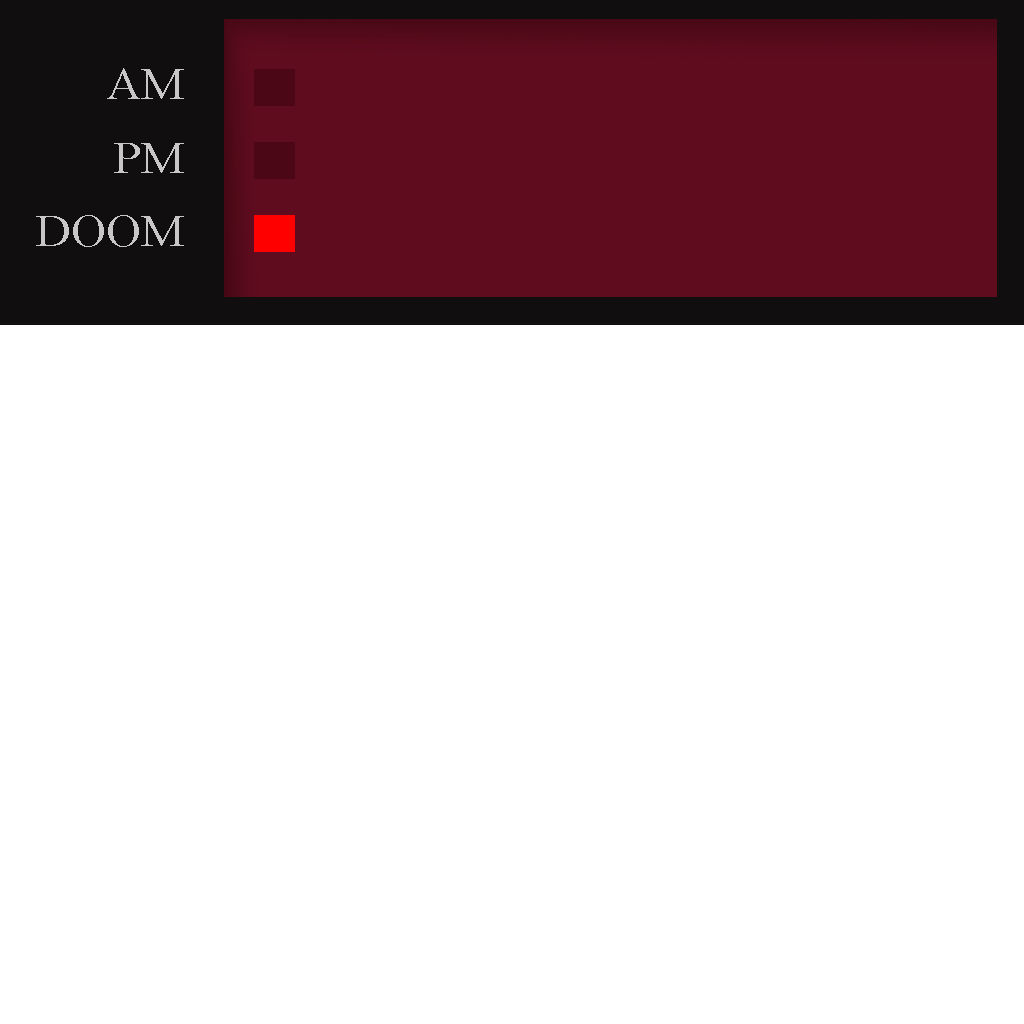
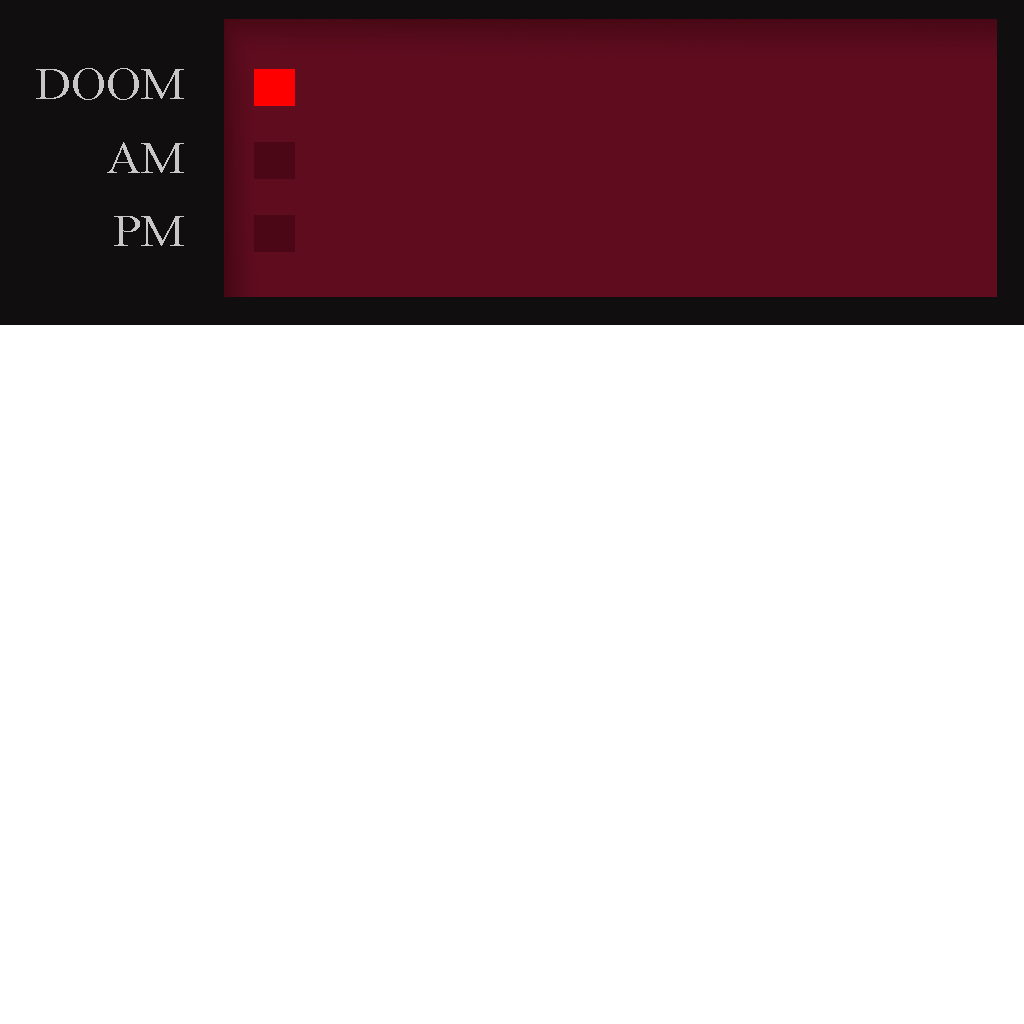
Added: key display, interact display
call scene->canvas->collectKey() to add a key, and scene->canvas->setInteractHidden(bool val) to hide or show the interact tab

diff --git a/src/client/canvas.cpp b/src/client/canvas.cpp
@@ -8,26 +8,46 @@ Canvas::Canvas() {
     timerdisplay = new TimerDisplay(timerPos);
     elements.insert({timerdisplay->getName(), timerdisplay});
 
+    keydisplay = new KeyDisplay(keyPos);
+    elements.insert({keydisplay->getName(), keydisplay});
+
     compass = new Compass(compassPos);
     elements.insert({compass->getName(), compass});
+
+    interactdisplay = new InteractDisplay(interactPos);
+    elements.insert({interactdisplay->getName(), interactdisplay});
 }
 
 Canvas::~Canvas() {
-    delete crosshair;
-    delete timerdisplay;
+    for (const auto& pair : elements)
+        delete pair.second;
 }
 
 void Canvas::draw(Shader& shader) {
     shader.use();
-    crosshair->draw(shader);
-    timerdisplay->draw(shader);
-    compass->draw(shader);
+    for (const auto& pair : elements)
+        pair.second->draw(shader);
 }
 
 void Canvas::updateWindow(int width, int height) {
-    timerdisplay->onWindowUpdate(width, height);
-    crosshair->onWindowUpdate(width, height);
-    compass->onWindowUpdate(width, height);
+    for (const auto& pair : elements)
+        pair.second->onWindowUpdate(width, height);
+}
+
+void Canvas::collectKey() {
+    keydisplay->onCollectKey();
+}
+
+void Canvas::setInteractHidden(bool val) {
+    interactdisplay->setHidden(val);
+}
+
+void Canvas::updateTimer(int minutes, int seconds) {
+    timerdisplay->updateTimer(minutes, seconds);
+}
+
+void Canvas::updateCompass(glm::vec3 direction) {
+    compass->rotate(direction);
 }
 
 CanvasElement* Canvas::findElement(const std::string name) {

diff --git a/src/client/timerdisplay.cpp b/src/client/timerdisplay.cpp
@@ -76,17 +76,17 @@ TimerDisplay::~TimerDisplay() {
 void TimerDisplay::changePosition() {
 
     glm::vec2 digitsPos = pos + indent;
-    rMinute->position = glm::vec3(digitsPos.x, digitsPos.y, 0.0f);
+    rMinute->changePosition(glm::vec2(digitsPos.x, digitsPos.y));
 
-    column->position = glm::vec3(digitsPos.x + digitGap, digitsPos.y, 0.0f);
+    column->changePosition(glm::vec2(digitsPos.x + digitGap, digitsPos.y));
 
-    lSecond->position = glm::vec3(digitsPos.x + (digitGap * 2.0f), digitsPos.y, 0.0f);
+    lSecond->changePosition(glm::vec2(digitsPos.x + (digitGap * 2.0f), digitsPos.y));
 
-    rSecond->position = glm::vec3(digitsPos.x + (digitGap * 2.5f) + digitGap, digitsPos.y, 0.0f);
+    rSecond->changePosition(glm::vec2(digitsPos.x + (digitGap * 2.5f) + digitGap, digitsPos.y));
 }
 
 void TimerDisplay::onWindowUpdate(int width, int height) {
-    //std::cout << "(" << width << "," << height << ")" << std::endl;
+    // std::cout << "(" << width << "," << height << ")" << std::endl;
     float widthOffset = (1600.0f / (float)width);
     float heightOffset = (900.0f / (float)height);
     for (unsigned int i = 0; i < 5; i++) {

diff --git a/src/client/scene.cpp b/src/client/scene.cpp
@@ -5,8 +5,6 @@
 #include <glad/glad.h>
 #include <iostream>
 #include <vector>
-#include "compass.hpp"
-#include "timerdisplay.hpp"
 
 struct PointLight {
     glm::vec3 position;
@@ -102,24 +100,10 @@ void Scene::updatePlayerState(int id, const glm::vec3& position, const glm::vec3
     }
 }
 
-void Scene::updateTimer(int minutes, int seconds) {
-    // for (auto& [id, player] : players) {
-    //     glm::vec3 dir = player.getDirection();
-    //     std::cout << id << ": " << glm::to_string(dir) << std::endl;
-    // }
-    TimerDisplay* timer = static_cast<TimerDisplay*>(canvas->findElement("timerdisplay"));
-    timer->updateTimer(minutes, seconds);
-}
-
 void Scene::updateWindow() {
     int width, height;
     glfwGetWindowSize(this->window, &width, &height);
     canvas->updateWindow(width, height);
-}
-
-void Scene::updateCompass(glm::vec3 direction) {
-    Compass* compass = static_cast<Compass*>(canvas->findElement("compass"));
-    compass->rotate(direction);
 }
 
 void Scene::removePlayer(int id) {

diff --git a/include/client/keydisplay.hpp b/include/client/keydisplay.hpp
@@ -1,23 +1,17 @@
 #pragma once
 #include <glm/glm.hpp>
 #include <vector>
-#include "canvaselement.hpp"
+#include "canvasimage.hpp"
 #include "uielement.hpp"
 
-class KeyDisplay : public CanvasElement {
+class KeyDisplay : public CanvasImage {
   public:
-    KeyDisplay(glm::vec2 position);
+    KeyDisplay(glm::vec2 pos);
     ~KeyDisplay();
-    void draw(Shader& shader) override;
-    void setHidden(bool val) override;
-    std::string getName() override;
+    void onCollectKey();
 
   private:
-    bool hidden = false;
-    std::string name = "keydisplay";
-    glm::vec2 position;
-    glm::vec2 scale;
-    glm::vec2 initialSpriteCoords = glm::vec2(0.0f, 0.0f);
-    std::vector<UIElement*> keys;
-    UITexture uiTexture;
+    unsigned int collectedKeys = 0;
+    glm::vec2 spriteMap[4] = {glm ::vec2(0.0f, 1024.0f), glm ::vec2(1024.0f, 1024.0f),
+                              glm ::vec2(0.0f, 0.0f), glm ::vec2(1024.0f, 0.0f)};
 };

diff --git a/src/client/interactdisplay.cpp b/src/client/interactdisplay.cpp
@@ -1,0 +1,24 @@
+#include "interactdisplay.hpp"
+
+InteractDisplay::InteractDisplay(glm::vec2 pos) {
+    name = "interactdisplay";
+    position = glm::vec2(pos.x, pos.y);
+    scale = glm::vec2(0.6f, 0.6f);
+    uiTexture = {"../src/client/ui/interact.png", glm::vec2(1024.0f, 1024.0f),
+                 glm::vec2(1024.0f, 1024.0f)};
+    uiELement = new UIElement(glm::vec3(position.x, position.y, 0.0f), scale, initialSpriteCoords,
+                              uiTexture);
+}
+
+void InteractDisplay::onWindowUpdate(int width, int height) {
+    float widthOffset = (1600.0f / (float)width);
+    float heightOffset = (900.0f / (float)height);
+    float xPos = -(uiELement->getBaseWidth() * widthOffset) / 2;
+
+    uiELement->changeDimensions(glm::vec2(widthOffset, heightOffset));
+    uiELement->changePosition(glm::vec2(xPos, uiELement->getPosition().y));
+}
+
+InteractDisplay::~InteractDisplay() {
+    delete uiELement;
+}

diff --git a/include/client/canvas.hpp b/include/client/canvas.hpp
@@ -3,13 +3,20 @@
 #include <unordered_map>
 #include "compass.hpp"
 #include "crosshair.hpp"
+#include "interactdisplay.hpp"
+#include "keydisplay.hpp"
 #include "timerdisplay.hpp"
+
 class Canvas {
   public:
     Canvas();
     ~Canvas();
     void draw(Shader& shader);
     void updateWindow(int width, int height);
+    void collectKey();
+    void setInteractHidden(bool val);
+    void updateTimer(int minutes, int seconds);
+    void updateCompass(glm::vec3 direction);
     CanvasElement* findElement(const std::string name);
 
   private:
@@ -21,6 +28,12 @@ class Canvas {
     TimerDisplay* timerdisplay;
     glm::vec2 timerPos = glm::vec2(-1.0f, 1.0f);
 
+    KeyDisplay* keydisplay;
+    glm::vec2 keyPos = glm::vec2(-1.0f, 1.0f);
+
     Compass* compass;
     glm::vec2 compassPos = glm::vec2(0.7f, 1.0f);
+
+    InteractDisplay* interactdisplay;
+    glm::vec2 interactPos = glm::vec2(-0.3f, -.6f);
 };

diff --git a/src/client/keydisplay.cpp b/src/client/keydisplay.cpp
@@ -1,0 +1,26 @@
+#include "keydisplay.hpp"
+
+KeyDisplay::KeyDisplay(glm::vec2 pos) {
+    name = "keydisplay";
+    hidden = true;
+    position = glm::vec2(pos.x, pos.y);
+    scale = glm::vec2(.6f, 1.0f);
+    initialSpriteCoords = glm ::vec2(1024.0f, 1024.0f);
+    uiTexture = {"../src/client/ui/key-atlas.png", glm::vec2(2048.0f, 2048.0f),
+                 glm::vec2(1024.0f, 1024.0f)};
+    uiELement =
+        new UIElement(glm::vec3(position.x, position.y, 0.0f), scale, spriteMap[0], uiTexture);
+}
+
+void KeyDisplay::onCollectKey() {
+    if (collectedKeys >= 4)
+        return;
+    if (hidden)
+        hidden = false;
+    uiELement->changeSprite(spriteMap[collectedKeys]);
+    collectedKeys++;
+}
+
+KeyDisplay::~KeyDisplay() {
+    delete uiELement;
+}

diff --git a/include/client/uielement.hpp b/include/client/uielement.hpp
@@ -14,19 +14,28 @@ class UIElement {
     void draw(Shader& shader);
     void changeSprite(glm::vec2 coords);
     void changeDimensions(glm::vec2 dim);
+    void changePosition(glm::vec2 pos);
     void rotate(float deg);
+
+    GLfloat getBaseWidth() {
+        return baseWidth;
+    }
+
+    glm::vec3 getPosition() {
+        return position;
+    }
 
   public:
     GLfloat widthModifier, heightModifier;
     glm::vec2 positionModifier;
-    glm::vec3 position;
 
   private:
     GLfloat baseWidth, baseHeight, angle;
-
     GLuint vao, ebo;
     GLuint vbo[2];
     GLuint texture = 0;
+
+    glm::vec3 position;
 
     UITexture uiTexture;
 

diff --git a/include/client/scene.hpp b/include/client/scene.hpp
@@ -80,13 +80,10 @@ class Scene {
      */
     void render(const Camera& camera, bool boundingBoxMode);
 
-    void updateTimer(int minutes, int seconds);
-
-    void updateCompass(glm::vec3 direction);
-
     void updateWindow();
 
     GLFWwindow* window;
+    std::unique_ptr<Canvas> canvas;
 
   private:
     /**
@@ -114,8 +111,6 @@ class Scene {
 
     std::unique_ptr<Model> swampRoomAsset;
     std::unique_ptr<Model> lilypadAsset;
-
-    std::unique_ptr<Canvas> canvas;
 
     std::map<std::string, std::unique_ptr<ModelInstance>>
         modelInstances; // Top-level model instances with their child models.

diff --git a/src/client/client.cpp b/src/client/client.cpp
@@ -227,7 +227,7 @@ void Client::updatePlayerStates(const json& parsed) {
 }
 
 void Client::updateGameTimer(const json& parsed) {
-    scene->updateTimer(parsed["minutes"], parsed["seconds"]);
+    scene->canvas->updateTimer(parsed["minutes"], parsed["seconds"]);
 }
 
 static std::string mapKeyToAction(int key) {
@@ -290,7 +290,7 @@ void Client::handleMouseInput() {
 
     glm::vec3 direction = yawToDirection(yaw);
     if (scene)
-        scene->updateCompass(direction);
+        scene->canvas->updateCompass(direction);
     json message;
 
     message["type"] = "mouse_input";

diff --git a/src/client/uielement.cpp b/src/client/uielement.cpp
@@ -172,6 +172,10 @@ void UIElement::changeDimensions(glm::vec2 dim) {
     this->heightModifier = dim.y;
 }
 
+void UIElement::changePosition(glm::vec2 pos) {
+    this->position = glm::vec3(pos, 0.0f);
+}
+
 void UIElement::rotate(float deg) {
     this->angle = deg;
 }

diff --git a/include/client/interactdisplay.hpp b/include/client/interactdisplay.hpp
@@ -1,0 +1,10 @@
+#pragma once
+#include <glm/glm.hpp>
+#include "canvasimage.hpp"
+
+class InteractDisplay : public CanvasImage {
+  public:
+    InteractDisplay(glm::vec2 pos);
+    ~InteractDisplay();
+    void onWindowUpdate(int width, int height) override;
+};
